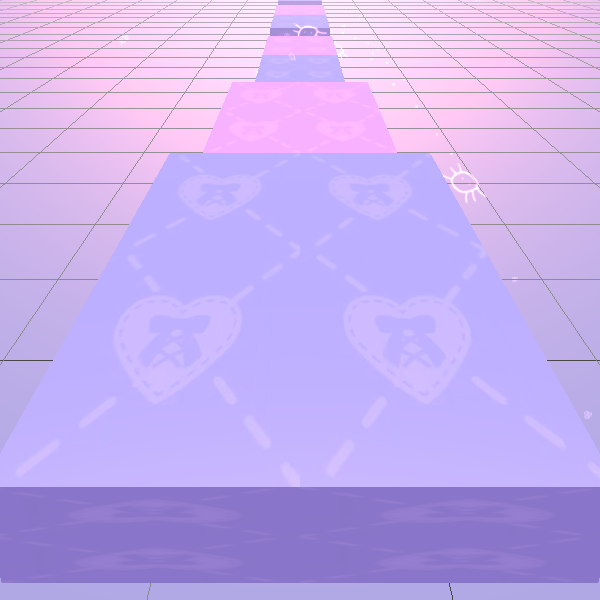
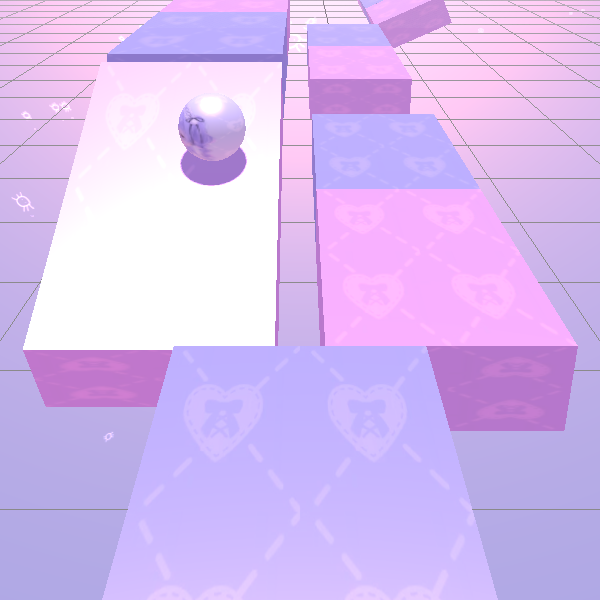
Restore levels 2 and 3 wil new ones. Lower when the camera pans up with you.

diff --git a/js/maps/MapGenerator.js b/js/maps/MapGenerator.js
@@ -7,6 +7,8 @@ mapData["2"] = {};
 mapData["3"] = {};
 
 mapData["1"]["1"] = "1~Tile0,0,0,10,0,0,0,0,1,1,1|Tile1,1,0,10,100,0,0,0,1,1,1|Tile2,0,0,10,200,0,0,0,1,1,1|Tile3,1,0,10,375,0,0,0,1,1,1|Tile4,0,0,10,475,0,0,0,1,1,1|Tile5,1,0,10,575,0,0,0,1,1,1|Tile6,0,0,10,825,0,0,0,1,1,1|Tile7,1,0,10,925,0,0,0,1,1,1|Tile8,0,0,10,1025,0,0,0,1,1,1|Tile9,1,0,10,1325,0,0,0,1,1,1|AmiyaBar,2,0,10,1400,0,0,0,1,1,1|AmiyaBar,2,0,10,1450,0,0,0,1,1,1|AmiyaBar,2,0,10,1500,0,0,0,1,1,1|Tile14,1,0,10,1575,0,0,0,1,1,1|Tile15,0,-30,10,1675,0,0,0,1,1,1|Tile16,1,-60,10,1775,0,0,0,1,1,1|Tile17,0,-60,10,1875,0,0,0,1,1,1|Tile18,1,-110,25,1875,0,0,-0.30000000000000004,1,1,1|Tile19,0,-110,25,1775,0,0,-0.30000000000000004,1,1,1|Tile20,1,-40,10,1975,0,0,0,1,1,1|Tile21,0,-20,10,2075,0,0,0,1,1,1|Tile22,1,50,10,2275,0,0,0,1,1,1|Tile23,0,50,10,2375,0,0,0,1,1,1|Tile24,1,50,10,2475,0,0,0,1,1,1|Tile25,0,0,10,2675,0,0,0,1,1,1|Tile26,1,0,10,2775,0,0,0,1,1,1|Tile27,0,0,30,2950,0,0,0,1,1,1|Tile28,1,0,30,3050,0,0,0,1,1,1|Tile29,0,0,20,3150,0.1,0,0,1,1,1|Tile30,1,0,10,3250,0,0,0,1,1,1|Tile31,0,0,10,3350,0,0,0,1,1,1|Player,2,-4,91,4908,0,0,0,1,1,1|Tile32,1,0,10,3450,0,0,0,1,1,1|Tile33,0,0,10,3600,0,0,0,2,1,2|Tile34,1,0,10,3800,0,0,0,2,1,2|Tile35,0,30,30,3775,0,0,0,1,1,1|Tile36,1,-20,30,3600,0,0,0,1,1,1|Tile37,0,30,35,4025,0,0,0,1,1,1|Tile38,1,-30,10,4025,0,0,0,1,1,1|Tile39,0,-30,10,4125,0,0,0,1,1,1|AmiyaBar40,1,30,35,4100,0,0,0,1,1,1|Tile41,0,30,35,4175,0,0,0,1,1,1|Tile42,1,-30,10,4225,0,0,0,1,1,1|Tile43,0,0,10,4325,0,0,0,1,1,1|Tile44,1,0,10,4425,0,0,0,1,1,1|Tile45,0,0,10,4525,0,0,0,1,1,1|Tile46,1,0,10,4625,0,0,0,1,1,1|Tile47,0,0,10,4825,0,0,0,1,1,1|Goal,1,0,70,4900,0,0,0,1,1,1"
+mapData["1"]["2"] = "1~Tile0,0,0,10,0,0,0,0,1,1,1|Tile1,1,0,10,100,0,0,0,1,1,1|Tile2,0,0,10,200,0,0,0,1,1,1|Tile3,1,30,30,300,-0.2,0,0,1,1,1|Tile4,0,30,50,400,0,0,0,1,1,1|Tile5,1,30,50,500,0,0,0,1,1,1|Tile6,0,30,65,600,0,0,0,1,1,1|Tile7,1,30,80,750,0,0,0,1,1,1|Tile8,0,30,80,850,0,0,0,1,1,1|Tile9,1,30,80,950,0,0,0,1,1,1|Tile10,0,30,100,1150,0,0,0,1,1,1|Tile11,1,30,100,1250,0,0,0,1,1,1|Tile12,0,-30,100,1475,0,0,0,1,1,1|Tile13,1,40,100,1675,0,0,0,1,1,1|AmiyaBar,2,40,100,1750,0,0,0,1,1,1|AmiyaBar,2,40,100,1800,0,0,0,1,1,1|Tile16,0,40,100,1875,0,0,0,1,1,1|Tile17,1,-30,10,300,0,0,0,1,1,1|Tile18,0,-30,10,400,0,0,0,1,1,1|Tile19,1,-30,10,575,0,0,0,1,1,1|Tile20,0,-30,10,675,0,0,0,1,1,1|Tile21,1,-80,20,775,0,0,-0.2,1,1,1|Tile22,0,-80,20,875,0,0,-0.2,1,1,1|Tile23,1,-80,20,975,0,0,-0.2,1,1,1|Tile24,0,-80,20,1150,0,0,-0.2,1,1,1|Tile25,1,-70,40,1250,0,0,-0.2,1,1,1|Tile26,0,-60,60,1350,0,0,-0.2,1,1,1|Tile28,1,-10,25,1450,0,0,0,1,1,1|Tile29,0,-10,25,1550,0,0,0,1,1,1|Tile30,1,-10,25,1650,0,0,0,1,1,1|AmiyaBar,2,-10,25,1725,0,0,0,1,1,1|AmiyaBar,2,-10,25,1775,0,0,0,1,1,1|Tile33,0,-10,25,1850,0,0,0,1,1,1|Tile34,1,30,30,2100,0,0,0.1,2,1,2|Tile35,0,30,30,2300,0,0,0.1,2,1,2|Tile36,1,-40,30,2500,0,0,-0.30000000000000004,1.5,1,1.5|Tile37,0,-40,30,2725,0,0,-0.30000000000000004,1.5,1,1.5|Tile38,1,50,30,2975,0,0,0.2,1.5,1,1.5|Tile39,0,50,30,3125,0,0,0.2,1.5,1,1.5|Tile40,1,-30,20,3325,0,0,-0.30000000000000004,1,1,1|Tile41,0,-50,35,3425,0,0,-0.30000000000000004,1,1,1|Tile42,1,-70,50,3525,0,0,-0.30000000000000004,1,1,1|Tile43,0,-70,50,3625,0,0,-0.30000000000000004,1,1,1|Tile44,1,-40,30,3725,0,0,-0.30000000000000004,1,1,1|Tile45,0,-10,15,3825,0,0,-0.1,1,1,1|Tile46,1,10,15,3925,0,0,0,1,1,1|Tile47,0,10,15,4025,0,0,0,1,1,1|Player,2,0,112,6375,0,0,0,1,1,1|AmiyaBar48,1,10,15,4100,0,0,0,1,1,1|AmiyaBar49,0,10,15,4150,0,0,0,1,1,1|Tile50,1,10,15,4225,0,0,0,1,1,1|Tile51,0,10,25,4325,-0.1,0,0,1,1,1|Tile52,1,10,25,4425,0.1,0,0,1,1,1|Tile53,0,10,25,4525,-0.1,0,0,1,1,1|Tile54,1,10,25,4625,0.1,0,0,1,1,1|Tile55,0,10,25,4725,-0.1,0,0,1,1,1|Tile56,1,10,35,4825,0,0,0,1,1,1|Tile57,0,10,35,4925,0,0,0,1,1,1|Tile58,1,10,35,5125,0,0,0,1.75,1,1.75|Tile59,0,10,55,5300,0,0,0,1.75,1,1.75|Tile60,1,0,75,5475,0,0,-0.30000000000000004,1.75,1,1.75|Tile61,0,0,75,5700,0,0,0,1.75,1,1.75|Tile62,1,0,75,5950,0,0,0.30000000000000004,1.75,1,1.75|Tile63,0,0,75,6225,0,0,0,1.75,1,1.75|Goal,1,0,90,6375,0,0,0,1,1,1"
+mapData["1"]["3"] = "1~Tile0,0,0,10,0,0,0,0,1,1,1|Tile1,1,0,10,125,0,0,0,1.5,1,1.5|Tile2,0,0,10,300,0,0,0,2,1,2|Tile3,1,100,50,300,0,0,0.1,2,1,2|Tile4,0,-100,50,300,0,0,-0.1,2,1,2|Tile5,1,-100,50,500,0,0,-0.1,2,1,2|Tile6,0,100,50,500,0,0,0.1,2,1,2|Tile7,1,0,30,500,-0.1,0,0,2,1,2|Ball8,0,106,74,250,-0.054739780724048615,-0.04013173282146454,0.40925562381744385,2,2,2|Ball9,1,106,74,275,-0.054745543748140335,-0.0401325598359108,0.40925437211990356,2,2,2|Ball10,0,106,74,300,-0.05474013835191727,-0.040131352841854095,0.4092544913291931,2,2,2|Ball11,1,106,74,325,-0.05473880469799042,-0.04013102501630783,0.4092543423175812,2,2,2|Ball12,0,106,74,350,-0.05473979562520981,-0.04013115167617798,0.40925413370132446,2,2,2|Ball13,1,106,74,375,-0.054740551859140396,-0.04013202711939812,0.40925535559654236,2,2,2|Ball14,0,106,74,399,-0.06581246107816696,-0.04020026698708534,0.4143519699573517,2,2,2|Ball15,1,106,74,425,-0.05473834276199341,-0.04013090953230858,0.4092554748058319,2,2,2|Ball16,0,106,74,450,-0.05474001169204712,-0.04013172909617424,0.4092555046081543,2,2,2|Ball17,1,106,74,475,-0.054745543748140335,-0.0401325598359108,0.40925437211990356,2,2,2|Ball18,0,106,74,500,-0.05474013835191727,-0.040131352841854095,0.4092544913291931,2,2,2|Ball19,1,106,74,525,-0.05473914369940758,-0.04013112187385559,0.4092548191547394,2,2,2|Ball20,0,106,74,550,-0.05473979562520981,-0.04013115167617798,0.40925413370132446,2,2,2|Ball21,1,106,74,575,-0.054740600287914276,-0.040131986141204834,0.40925535559654236,2,2,2|Ball22,0,30,106,544,-0.4285458028316498,1.558113069677347e-7,-0.0000018307022173758014,2,2,2|Ball23,1,-30,106,544,-0.42854562401771545,7.251338018932074e-8,2.4633547468511097e-7,2,2,2|Ball24,0,-106,74,575,-0.054740600287914276,0.040131986141204834,-0.40925535559654236,2,2,2|Ball25,1,-106,74,550,-0.05473979562520981,0.04013115167617798,-0.40925413370132446,2,2,2|Ball26,0,-106,74,525,-0.05473914369940758,0.04013112187385559,-0.4092548191547394,2,2,2|Ball27,1,-106,74,500,-0.05474013835191727,0.040131352841854095,-0.4092544913291931,2,2,2|Ball28,0,-106,74,475,-0.054745543748140335,0.0401325598359108,-0.40925437211990356,2,2,2|Ball29,1,-106,74,450,-0.05474001169204712,0.04013172909617424,-0.4092555046081543,2,2,2|Ball30,0,-106,74,425,-0.05473834276199341,0.04013090953230858,-0.4092554748058319,2,2,2|Ball31,1,-106,74,399,-0.06602411717176437,0.03982996568083763,-0.4135934114456177,2,2,2|Ball32,0,-106,74,375,-0.054740551859140396,0.04013202711939812,-0.40925535559654236,2,2,2|Ball33,1,-106,74,350,-0.05473979562520981,0.04013115167617798,-0.40925413370132446,2,2,2|Ball34,0,-106,74,325,-0.05473880469799042,0.04013102501630783,-0.4092543423175812,2,2,2|Ball35,1,-106,74,300,-0.05474013835191727,0.040131352841854095,-0.4092544913291931,2,2,2|Ball36,0,-106,74,275,-0.054745543748140335,0.0401325598359108,-0.40925437211990356,2,2,2|Ball37,1,-106,74,250,-0.054739780724048615,0.04013173282146454,-0.40925562381744385,2,2,2|Tile38,0,0,30,725,0,0,0,1,1,1|Tile39,1,0,20,875,0,0,0,1,1,1|Tile40,0,0,5,1025,0,0,0,1,1,1|Tile41,1,0,5,1125,0,0,0,1,1,1|Tile42,0,0,5,1275,0,0,0,2,1,2|Tile43,1,-100,15,1275,0,0,-0.1,2,1,2|Tile44,0,0,5,1475,0,0,0,2,1,2|Tile45,1,-100,15,1475,0,0,-0.1,2,1,2|Tile46,0,0,25,1675,0,0,0,2,1,2|Tile47,1,100,25,1475,0,0,0.2,2,1,2|Tile48,0,0,45,1875,-0.1,0,0,2,1,2|Tile49,1,100,25,1275,0,0,0.2,2,1,2|Ball50,0,40,21,1225,0,0,-4.257489916170698e-9,1,1,1|Ball51,1,20,21,1225,0.0000010902772373810876,2.019097996436292e-12,-0.0000019517276541591855,1,1,1|Ball52,0,0,21,1225,0.0000075941738941764925,6.243201485303662e-13,2.012280759799978e-7,1,1,1|Ball53,1,-20,21,1225,-0.00000670759754939354,1.3594072428065734e-14,-4.447008983277101e-9,1,1,1|Ball54,0,-40,21,1225,-0.000002272605343023315,7.37179987010359e-17,3.3584444253387247e-11,1,1,1|Ball55,1,-40,21,1250,8.103223763100686e-7,4.535797905075734e-16,-1.1297338620153141e-9,1,1,1|Ball56,0,-20,21,1250,-0.000004526142220129259,5.648086165432886e-13,-0.000004295767666917527,1,1,1|Ball57,1,0,21,1250,0,0,0,1,1,1|Ball58,0,20,21,1250,-0.00000481210918223951,-1.9544879603650145e-11,-0.000003986857791460352,1,1,1|Ball59,1,40,21,1250,-0.000004766693109559128,-8.78776218460331e-12,-0.0000031994859455153346,1,1,1|Ball60,0,40,21,1275,0,0,0,1,1,1|Ball61,1,20,21,1275,-0.0000025912415821949253,-1.0947322909293788e-11,-0.00000522623076903983,1,1,1|Ball62,0,0,21,1275,0.0000148066392284818,-3.022504468930265e-10,0.00006073272743378766,1,1,1|Ball63,1,-20,21,1275,-0.000007517168342019431,-1.8792196965211616e-11,-0.0000024742864752624882,1,1,1|Ball64,0,-40,21,1275,-0.00000685420491208788,6.158198950778626e-13,0.0000037613567656080704,1,1,1|Ball65,1,-40,21,1300,-0.000007619022198923631,-1.6502404098176632e-14,-8.035632603764498e-9,1,1,1|Ball66,0,-20,21,1300,-2.227527033937804e-7,-2.2486620204764662e-11,-0.000003431738832659903,1,1,1|Ball67,1,0,21,1300,-3.8088666087787715e-7,1.3262981858608303e-11,-0.00000126832321711845,1,1,1|Ball68,0,20,21,1300,-0.000009635781680117361,2.458971394558862e-12,-0.000001055264533533773,1,1,1|Ball69,1,40,21,1300,0.000006630168627452804,-7.776567475907548e-14,1.2897948487022859e-8,1,1,1|Ball70,0,40,21,1325,-0.000008690411050338298,-3.7917938103607107e-16,1.2835880802697375e-8,1,1,1|Ball71,1,20,21,1325,-0.0000031198389933706494,7.310353711265094e-12,-0.0000036762844501936343,1,1,1|Ball72,0,0,21,1325,0.0000018469925180397695,2.1874509148478438e-11,-0.000004021455424663145,1,1,1|Ball73,1,-20,21,1325,-0.000007973632818902843,7.454642805826417e-12,-0.0000017295778889092617,1,1,1|Ball74,0,-40,21,1325,-0.00000522227037436096,8.315910460243714e-12,0.000006637596015934832,1,1,1|Ball75,1,-40,21,1350,-0.00000778171124693472,-4.771546656054393e-15,-2.810964261357185e-8,1,1,1|Ball76,0,-20,21,1350,-2.5576312623343256e-7,-1.6967592261774023e-11,-0.000005419600256573176,1,1,1|Ball77,1,0,21,1350,0.0000027135010896017775,-1.1753987540219502e-12,-0.0000010867453283935902,1,1,1|Ball78,0,20,21,1350,0.000008949681614467409,-9.853838231488332e-12,0.0000011372284234312247,1,1,1|Ball79,1,40,21,1350,0.000005765185505879344,1.8478427121770835e-11,0.000006481118361989502,1,1,1|Ball80,0,40,21,1374,-0.10011490434408188,-0.00000907939738681307,0.00003075483982684091,1,1,1|Ball81,1,20,21,1374,-0.10012030601501465,0.000006154800303193042,-0.00002764266355370637,1,1,1|Ball82,0,0,21,1374,-0.10011491179466248,1.0754349943908892e-7,-0.0000012544037417683285,1,1,1|Ball83,1,-20,21,1376,0.10018140822649002,0.000006660941380687291,0.00004131221430725418,1,1,1|Ball84,0,-40,21,1376,0.1001824215054512,2.7092906407233386e-7,0.000002547691565268906,1,1,1|Ball85,1,-40,21,1400,-0.000007395035936497152,2.898912013216126e-12,-0.000001103469003282953,1,1,1|Ball86,0,-20,21,1400,0.000004696270480053499,2.1304950859057925e-11,-0.000004640676706912927,1,1,1|Ball87,1,0,21,1400,0.0000034273577966814628,-3.4492981387801436e-12,0.000002625974047987256,1,1,1|Ball88,0,20,21,1400,0.000006908239811309613,-1.7655755329970546e-11,-0.000003327566446387209,1,1,1|Ball89,1,40,21,1400,0.000007288658252946334,-5.629189822609071e-12,-0.0000021158218714845134,1,1,1|Ball90,0,40,21,1425,0,0,-4.257489916170698e-9,1,1,1|Ball91,1,20,21,1425,0.0000010902772373810876,2.019097996436292e-12,-0.0000019517276541591855,1,1,1|Ball92,0,0,21,1425,0.0000075941738941764925,6.243201485303662e-13,2.012280759799978e-7,1,1,1|Ball93,1,-20,21,1425,-0.00000670759754939354,1.3594072428065734e-14,-4.447008983277101e-9,1,1,1|Ball94,0,-40,21,1425,-0.000002272605343023315,7.37179987010359e-17,3.3584444253387247e-11,1,1,1|Ball95,1,-40,21,1450,8.103223763100686e-7,4.535797905075734e-16,-1.1297338620153141e-9,1,1,1|Ball96,0,-20,21,1450,-0.000004526142220129259,5.648086165432886e-13,-0.000004295767666917527,1,1,1|Ball97,1,0,21,1450,0,0,0,1,1,1|Ball98,0,20,21,1450,-0.00000481210918223951,-1.9544879603650145e-11,-0.000003986857791460352,1,1,1|Ball99,1,40,21,1450,-0.000004766693109559128,-8.78776218460331e-12,-0.0000031994859455153346,1,1,1|Ball100,0,40,21,1475,0,0,0,1,1,1|Ball101,1,20,21,1475,-0.0000025912415821949253,-1.0947322909293788e-11,-0.00000522623076903983,1,1,1|Ball102,0,0,21,1475,0.0000148066392284818,-3.022504468930265e-10,0.00006073272743378766,1,1,1|Ball103,1,-20,21,1475,-0.000007517168342019431,-1.8792196965211616e-11,-0.0000024742864752624882,1,1,1|Ball104,0,-40,21,1475,-0.00000685420491208788,6.158198950778626e-13,0.0000037613567656080704,1,1,1|Ball105,1,-40,21,1500,-0.000007619022198923631,-1.6502404098176632e-14,-8.035632603764498e-9,1,1,1|Ball106,0,-20,21,1500,-2.227527033937804e-7,-2.2486620204764662e-11,-0.000003431738832659903,1,1,1|Ball107,1,0,21,1500,-3.8088666087787715e-7,1.3262981858608303e-11,-0.00000126832321711845,1,1,1|Ball108,0,20,21,1500,-0.000009635781680117361,2.458971394558862e-12,-0.000001055264533533773,1,1,1|Ball109,1,40,21,1500,0.000006630168627452804,-7.776567475907548e-14,1.2897948487022859e-8,1,1,1|Ball110,0,40,21,1525,-0.000008690411050338298,-3.7917938103607107e-16,1.2835880802697375e-8,1,1,1|Ball111,1,20,21,1525,-0.0000031198389933706494,7.310353711265094e-12,-0.0000036762844501936343,1,1,1|Ball112,0,0,21,1525,0.0000018469925180397695,2.1874509148478438e-11,-0.000004021455424663145,1,1,1|Ball113,1,-20,21,1525,-0.000007973632818902843,7.454642805826417e-12,-0.0000017295778889092617,1,1,1|Ball114,0,-40,21,1525,-0.00000522227037436096,8.315910460243714e-12,0.000006637596015934832,1,1,1|Ball115,1,-40,21,1550,-0.00000778171124693472,-4.771546656054393e-15,-2.810964261357185e-8,1,1,1|Ball116,0,-20,21,1550,-2.5576312623343256e-7,-1.6967592261774023e-11,-0.000005419600256573176,1,1,1|Ball117,1,0,21,1550,0.0000027135010896017775,-1.1753987540219502e-12,-0.0000010867453283935902,1,1,1|Ball118,0,20,21,1550,0.000008949681614467409,-9.853838231488332e-12,0.0000011372284234312247,1,1,1|Ball119,1,40,21,1550,0.000005765185505879344,1.8478427121770835e-11,0.000006481118361989502,1,1,1|Ball120,0,0,79,1931,-0.37400975823402405,1.585103959200751e-8,-1.0775659120554337e-7,2,2,2|Ball121,1,-105,56,1300,0.0000012415392802722636,-0.0000010225413689113338,-0.402375727891922,2,2,2|Ball122,0,-105,56,1475,-0.0000015002833606558852,-1.6557176252263162e-7,-0.40237507224082947,2,2,2|Ball123,1,78,40,1250,6.037095658939506e-7,5.863777801096148e-7,0.40952810645103455,2,2,2|Ball124,0,78,40,1400,2.522348268030328e-7,1.0385170412519074e-7,0.40952640771865845,2,2,2|Tile125,1,0,35,2225,0,0,0,1,1,1|Tile126,0,0,25,2325,0.1,0,0,1,1,1|Tile127,1,0,25,2425,-0.1,0,0,1,1,1|Ball128,0,-10,44,2373,0.019451003521680832,-0.00002330748066015076,-0.0011814795434474945,1,1,1|Ball129,1,10,44,2373,-0.019432343542575836,-0.000024439967091893777,0.0012602292699739337,1,1,1|Tile130,0,0,35,2525,0,0,0,1,1,1|Tile131,1,0,50,2625,-0.2,0,0,1,1,1|Tile132,0,0,35,2750,0,0,0,2,1,2|Tile133,1,0,35,2950,0,0,0,2,1,2|Ball134,0,40,70,2700,0,0,0,2,2,2|Ball135,1,-40,70,2700,0,0,0,2,2,2|Ball136,0,40,70,2750,0,0,0,2,2,2|Ball137,1,-40,70,2750,0,0,0,2,2,2|Ball138,0,40,70,2800,0,0,0,2,2,2|Ball139,1,-40,70,2800,0,0,0,2,2,2|Ball140,0,40,70,2850,0,0,0,2,2,2|Ball141,1,-40,70,2850,0,0,0,2,2,2|Ball142,0,40,70,2900,0,0,0,2,2,2|Ball143,1,-40,70,2900,0,0,0,2,2,2|Ball144,0,40,70,2950,0,0,0,2,2,2|Ball145,1,-40,70,2950,0,0,0,2,2,2|Ball146,0,40,70,3000,0,0,0,2,2,2|Ball147,1,-40,70,3000,0,0,0,2,2,2|Player,2,-7,83,3225,0,0,0,1,1,1|AmiyaBar149,0,0,65,2700,0,0,0,1,1,1|AmiyaBar150,1,0,35,3075,0,0,0,1,1,1|Ball151,0,10,55,3000,0,0,0,1,1,1|Ball152,1,-10,55,3000,0,0,0,1,1,1|Ball153,0,-10,55,2975,0,0,0,1,1,1|Ball154,1,10,55,2975,0,0,0,1,1,1|Ball155,0,10,55,2950,0,0,0,1,1,1|Ball156,1,-10,55,2950,0,0,0,1,1,1|Ball157,0,-10,55,2900,0,0,0,1,1,1|Ball158,1,10,55,2900,0,0,0,1,1,1|Ball159,0,10,55,2875,0,0,0,1,1,1|Ball160,1,-10,55,2875,0,0,0,1,1,1|Ball161,0,-10,55,2825,0,0,0,1,1,1|Ball162,1,10,55,2825,0,0,0,1,1,1|Ball163,0,10,55,2800,0,0,0,1,1,1|Ball164,1,-10,55,2800,0,0,0,1,1,1|Tile165,0,0,35,3150,0,0,0,1,1,1|Tile166,1,0,35,3250,0,0,0,1,1,1|Tile167,0,0,55,3350,0,0,0,1,1,1|Tile168,1,0,75,3450,0,0,0,1,1,1|Tile169,0,0,95,3550,0,0,0,1,1,1|Tile170,1,0,95,3650,0,0,0,1,1,1|Tile171,0,0,95,3750,0,0,0,1,1,1|Goal,1,0,110,3825,0,0,0,1,1,1|Ball173,0,-10,120,3775,0,0,0,1,1,1|Ball174,1,10,120,3775,0,0,0,1,1,1|Ball175,0,10,120,3725,0,0,0,1,1,1|Ball176,1,-10,120,3725,0,0,0,1,1,1|Ball177,0,-10,120,3675,0,0,0,1,1,1|Ball178,1,10,120,3675,0,0,0,1,1,1|Ball179,0,10,120,3625,0,0,0,1,1,1|Ball180,1,-10,120,3625,0,0,0,1,1,1|Ball181,0,-10,120,3575,0,0,0,1,1,1|Ball182,1,10,120,3575,0,0,0,1,1,1|Ball183,0,10,120,3525,0,0,0,1,1,1|Ball184,1,-10,120,3525,0,0,0,1,1,1|Ball185,0,-10,95,3475,0,0,0,1,1,1|Ball186,1,10,95,3475,0,0,0,1,1,1|Ball187,0,10,95,3425,0,0,0,1,1,1|Ball188,1,-10,95,3425,0,0,0,1,1,1|Ball189,0,-10,75,3375,0,0,0,1,1,1|Ball190,1,10,75,3375,0,0,0,1,1,1|Ball191,0,10,75,3325,0,0,0,1,1,1|Ball192,1,-10,75,3325,0,0,0,1,1,1|Ball193,0,-10,65,3275,0,0,0,1,1,1|Ball194,1,10,65,3275,0,0,0,1,1,1|Ball195,0,10,65,3225,0,0,0,1,1,1|Ball196,1,-10,65,3225,0,0,0,1,1,1"
 mapData["1"]["4"] = "1~Tile0,0,0,10,0,0,0,0,2,1,2|Tile1,1,0,10,200,0,0,0,2,1,2|Tile2,0,0,10,425,0,0,0,2,1,2|Tile3,1,0,10,650,0,0,0,1.5,1,1.5|Tile4,0,0,10,800,0,0,0,1.5,1,1.5|Tile5,1,0,10,1025,0,0,0,1,1,1|Tile6,0,0,10,1125,0,0,0,1,1,1|Tile7,1,0,10,1375,0,0,0,1,1,1|Tile8,0,0,10,1475,0,0,0,1,1,1|Tile9,1,-30,10,1625,0,0,0,1,1,1|Tile10,0,-30,10,1775,0,0,0,1,1,1|Tile11,1,20,10,1925,0,0,0,1,1,1|Tile12,0,20,10,2125,0,0,0,1,1,1|Tile13,1,20,10,2225,0,0,0,1,1,1|Tile14,0,-30,10,2375,0,0,0,1,1,1|Tile15,1,70,10,2375,0,0,0,1,1,1|Tile16,0,70,10,2475,0,0,0,1,1,1|Tile17,1,-30,10,2575,0,0,0,1,1,1|Tile18,0,70,10,2675,0,0,0,1,1,1|Tile19,1,70,10,2775,0,0,0,1,1,1|Tile20,0,-50,10,2775,0,0,0,1,1,1|Tile21,1,-50,10,2875,0,0,0,1,1,1|Tile22,0,-50,10,2975,0,0,0,1,1,1|Tile23,1,0,10,2975,0,0,0,1,1,1|Tile24,0,0,10,3075,0,0,0,1,1,1|Tile25,1,0,10,3275,0,0,0,1,1,1|AmiyaBar,2,0,10,3350,0,0,0,1,1,1|Tile27,1,0,10,3425,0,0,0,1,1,1|Tile28,0,0,10,3525,0,0,0,1,1,1|Tile29,1,0,10,3675,0,0,0,1,1,1|Tile30,0,0,10,3925,0,0,0,1,1,1|Tile31,1,0,10,4175,0,0,0,1,1,1|Tile32,0,0,30,4275,0,0,0,1,1,1|Tile33,1,0,30,4375,0,0,0,1,1,1|Tile34,0,0,25,4550,0,0,0,1,1,1|Tile35,1,0,25,4650,0,0,0,1,1,1|Tile36,0,0,25,4750,0,0,0,1,1,1|Goal,2,0,85,4825,0,0,0,1,1,1|Player,2,-79,30,2522,0,0,0,1,1,1|Tile39,0,40,50,1600,0,0,0,1,1,1|AmiyaBar40,1,40,50,1675,0,0,0,1,1,1|Tile41,0,40,50,1750,0,0,0,1,1,1|AmiyaBar42,1,-80,10,2600,0,0,0,1,1,1|Tile43,0,-80,10,2525,0,0,0,1,1,1"
 mapData["1"]["5"] = "1~Tile0,0,0,10,0,0,0,0,1,1,1|Tile1,1,0,10,100,0,0,0,1,1,1|Tile2,0,30,10,200,0,0,0.1,1,1,1|Tile3,1,40,10,300,0,0,0.2,1,1,1|Tile4,0,50,15,400,0,0,0.30000000000000004,1,1,1|Tile5,1,-30,15,525,0,0,-0.2,1,1,1|Tile6,0,-30,15,625,0,0,-0.2,1,1,1|Tile7,1,-30,15,725,0,0,-0.2,1,1,1|Tile8,0,50,15,825,0,0,0.2,1,1,1|Tile9,1,50,15,925,0,0,0.2,1,1,1|Tile10,0,50,15,1025,0,0,0.2,1,1,1|Tile11,1,-30,30,1075,0,0,-0.1,1,1,1|Tile12,0,-30,30,1175,0,0,-0.1,1,1,1|Tile13,1,50,10,1275,0,0,0.2,1,1,1|Tile14,0,50,10,1375,0,0,0.2,1,1,1|Tile15,1,-40,10,1475,0,0,-0.2,1,1,1|Tile16,0,-40,10,1575,0,0,-0.2,1,1,1|Tile17,1,-40,10,1750,0,0,-0.2,1,1,1|Tile18,0,-40,10,1850,0,0,-0.2,1,1,1|Tile19,1,-40,10,2100,0,0,-0.2,1,1,1|Tile20,0,-40,10,2200,0,0,-0.2,1,1,1|Tile21,1,30,10,2325,0,0,0.1,1,1,1|Tile22,0,30,10,2425,0,0,0.1,1,1,1|Player,2,-36,63,4367,0,0,0,1,1,1|Tile24,1,30,0,2600,0,0,0,2,1,2|Tile25,0,-70,0,2600,0,0,0,2,1,2|AmiyaBar26,1,-70,0,2750,0,0,0,2,1,2|AmiyaBar27,0,30,0,2750,0,0,0,2,1,2|Tile28,1,-20,0,2900,0,0,0,2,1,2|Tile29,0,-20,0,3050,0,0,0,1,1,1|Tile30,1,0,0,3225,0,0,0.1,1,1,1|Tile31,0,-50,0,3450,0,0,-0.1,1,1,1|Tile32,1,-50,0,3675,0,0,-0.30000000000000004,1,1,1|Tile33,0,-70,0,3875,0,0,-0.5,1,1,1|Tile34,1,0,5,4000,0,0,0.5,1,1,1|Tile35,0,-40,-5,4175,0,0,0,1,1,1|Tile36,1,-40,-5,4275,0,0,0,1,1,1|Goal,0,-40,45,4375,0,0,0,1,1,1"
 mapData["1"]["6"] = "1~Tile0,0,0,10,0,0,0,0,1,1,1|Tile1,1,0,10,125,0,0,0,1.5,1,1.5|Tile2,0,0,10,300,0,0,0,2,1,2|Tile3,1,100,50,300,0,0,0.1,2,1,2|Tile4,0,-100,50,300,0,0,-0.1,2,1,2|Tile5,1,-100,50,500,0,0,-0.1,2,1,2|Tile6,0,100,50,500,0,0,0.1,2,1,2|Tile7,1,0,30,500,-0.1,0,0,2,1,2|Ball8,0,130,125,250,-0.09805848449468613,0,0,2,2,2|Ball9,1,130,125,275,-0.09805848449468613,0,0,2,2,2|Ball10,0,130,125,300,-0.09805848449468613,0,0,2,2,2|Ball11,1,130,125,325,-0.09805848449468613,0,0,2,2,2|Ball12,0,130,125,350,-0.09805848449468613,0,0,2,2,2|Ball13,1,130,125,375,-0.09805848449468613,0,0,2,2,2|Ball14,0,130,125,400,-0.09805848449468613,0,0,2,2,2|Ball15,1,130,125,425,-0.09805848449468613,0,0,2,2,2|Ball16,0,130,125,450,-0.09805848449468613,0,0,2,2,2|Ball17,1,130,125,475,-0.09805848449468613,0,0,2,2,2|Ball18,0,130,125,500,-0.09805848449468613,0,0,2,2,2|Ball19,1,130,125,525,-0.09805848449468613,0,0,2,2,2|Ball20,0,130,125,550,-0.09805848449468613,0,0,2,2,2|Ball21,1,130,125,575,-0.09805848449468613,0,0,2,2,2|Ball22,0,30,125,575,-0.09805848449468613,0,0,2,2,2|Ball23,1,-30,125,575,-0.09805848449468613,0,0,2,2,2|Ball24,0,-130,125,575,-0.09805848449468613,0,0,2,2,2|Ball25,1,-130,125,550,-0.09805848449468613,0,0,2,2,2|Ball26,0,-130,125,525,-0.09805848449468613,0,0,2,2,2|Ball27,1,-130,125,500,-0.09805848449468613,0,0,2,2,2|Ball28,0,-130,125,475,-0.09805848449468613,0,0,2,2,2|Ball29,1,-130,125,450,-0.09805848449468613,0,0,2,2,2|Ball30,0,-130,125,425,-0.09805848449468613,0,0,2,2,2|Ball31,1,-130,125,400,-0.09805848449468613,0,0,2,2,2|Ball32,0,-130,125,375,-0.09805848449468613,0,0,2,2,2|Ball33,1,-130,125,350,-0.09805848449468613,0,0,2,2,2|Ball34,0,-130,125,325,-0.09805848449468613,0,0,2,2,2|Ball35,1,-130,125,300,-0.09805848449468613,0,0,2,2,2|Ball36,0,-130,125,275,-0.09805848449468613,0,0,2,2,2|Ball37,1,-130,125,250,-0.09805848449468613,0,0,2,2,2|Tile38,0,0,30,725,0,0,0,1,1,1|Tile39,1,0,20,875,0,0,0,1,1,1|Tile40,0,0,5,1025,0,0,0,1,1,1|Tile41,1,0,5,1125,0,0,0,1,1,1|Tile42,0,0,5,1275,0,0,0,2,1,2|Tile43,1,-100,15,1275,0,0,-0.1,2,1,2|Tile44,0,0,5,1475,0,0,0,2,1,2|Tile45,1,-100,15,1475,0,0,-0.1,2,1,2|Tile46,0,0,25,1675,0,0,0,2,1,2|Tile47,1,100,25,1475,0,0,0.2,2,1,2|Tile48,0,0,45,1875,-0.1,0,0,2,1,2|Tile49,1,100,25,1275,0,0,0.2,2,1,2|Ball50,0,40,25,1225,0,0,0,1,1,1|Ball51,1,20,25,1225,0,0,0,1,1,1|Ball52,0,0,25,1225,0,0,0,1,1,1|Ball53,1,-20,25,1225,0,0,0,1,1,1|Ball54,0,-40,25,1225,0,0,0,1,1,1|Ball55,1,-40,25,1250,0,0,0,1,1,1|Ball56,0,-20,25,1250,0,0,0,1,1,1|Ball57,1,0,25,1250,0,0,0,1,1,1|Ball58,0,20,25,1250,0,0,0,1,1,1|Ball59,1,40,25,1250,0,0,0,1,1,1|Ball60,0,40,25,1275,0,0,0,1,1,1|Ball61,1,20,25,1275,0,0,0,1,1,1|Ball62,0,0,25,1275,0,0,0,1,1,1|Ball63,1,-20,25,1275,0,0,0,1,1,1|Ball64,0,-40,25,1275,0,0,0,1,1,1|Ball65,1,-40,25,1300,0,0,0,1,1,1|Ball66,0,-20,25,1300,0,0,0,1,1,1|Ball67,1,0,25,1300,0,0,0,1,1,1|Ball68,0,20,25,1300,0,0,0,1,1,1|Ball69,1,40,25,1300,0,0,0,1,1,1|Ball70,0,40,25,1325,0,0,0,1,1,1|Ball71,1,20,25,1325,0,0,0,1,1,1|Ball72,0,0,25,1325,0,0,0,1,1,1|Ball73,1,-20,25,1325,0,0,0,1,1,1|Ball74,0,-40,25,1325,0,0,0,1,1,1|Ball75,1,-40,25,1350,0,0,0,1,1,1|Ball76,0,-20,25,1350,0,0,0,1,1,1|Ball77,1,0,25,1350,0,0,0,1,1,1|Ball78,0,20,25,1350,0,0,0,1,1,1|Ball79,1,40,25,1350,0,0,0,1,1,1|Ball80,0,40,25,1375,0,0,0,1,1,1|Ball81,1,20,25,1375,0,0,0,1,1,1|Ball82,0,0,25,1375,0,0,0,1,1,1|Ball83,1,-20,25,1375,0,0,0,1,1,1|Ball84,0,-40,25,1375,0,0,0,1,1,1|Ball85,1,-40,25,1400,0,0,0,1,1,1|Ball86,0,-20,25,1400,0,0,0,1,1,1|Ball87,1,0,25,1400,0,0,0,1,1,1|Ball88,0,20,25,1400,0,0,0,1,1,1|Ball89,1,40,25,1400,0,0,0,1,1,1|Ball90,0,40,25,1425,0,0,0,1,1,1|Ball91,1,20,25,1425,0,0,0,1,1,1|Ball92,0,0,25,1425,0,0,0,1,1,1|Ball93,1,-20,25,1425,0,0,0,1,1,1|Ball94,0,-40,25,1425,0,0,0,1,1,1|Ball95,1,-40,25,1450,0,0,0,1,1,1|Ball96,0,-20,25,1450,0,0,0,1,1,1|Ball97,1,0,25,1450,0,0,0,1,1,1|Ball98,0,20,25,1450,0,0,0,1,1,1|Ball99,1,40,25,1450,0,0,0,1,1,1|Ball100,0,40,25,1475,0,0,0,1,1,1|Ball101,1,20,25,1475,0,0,0,1,1,1|Ball102,0,0,25,1475,0,0,0,1,1,1|Ball103,1,-20,25,1475,0,0,0,1,1,1|Ball104,0,-40,25,1475,0,0,0,1,1,1|Ball105,1,-40,25,1500,0,0,0,1,1,1|Ball106,0,-20,25,1500,0,0,0,1,1,1|Ball107,1,0,25,1500,0,0,0,1,1,1|Ball108,0,20,25,1500,0,0,0,1,1,1|Ball109,1,40,25,1500,0,0,0,1,1,1|Ball110,0,40,25,1525,0,0,0,1,1,1|Ball111,1,20,25,1525,0,0,0,1,1,1|Ball112,0,0,25,1525,0,0,0,1,1,1|Ball113,1,-20,25,1525,0,0,0,1,1,1|Ball114,0,-40,25,1525,0,0,0,1,1,1|Ball115,1,-40,25,1550,0,0,0,1,1,1|Ball116,0,-20,25,1550,0,0,0,1,1,1|Ball117,1,0,25,1550,0,0,0,1,1,1|Ball118,0,20,25,1550,0,0,0,1,1,1|Ball119,1,40,25,1550,0,0,0,1,1,1|Ball120,0,0,160,1950,0,0,0,2,2,2|Ball122,1,-130,100,1300,0,0,0,2,2,2|Ball123,0,-130,100,1475,0,0,0,2,2,2|Ball124,1,130,100,1250,0,0,0,2,2,2|Ball125,0,130,100,1400,0,0,0,2,2,2|Player,2,-3,57,2729,0,0,0,1,1,1|Tile126,1,0,35,2225,0,0,0,1,1,1|Tile127,0,0,25,2325,0.1,0,0,1,1,1|Tile128,1,0,25,2425,-0.1,0,0,1,1,1|Ball129,0,-10,35,2375,0,0,0,1,1,1|Ball130,1,10,35,2375,0,0,0,1,1,1|Goal,0,0,35,2725,0,0,0,1,1,1"

diff --git a/js/amiyaroads.js b/js/amiyaroads.js
@@ -52,7 +52,7 @@ let maxSpeed = regularMaxSpeed;
 const maxStamina = 2500;
 
 // if the player goes above this height the camera will pan with them
-const yCamerPan = 120;
+const yCamerPan = 60;
 
 let seed;
 
